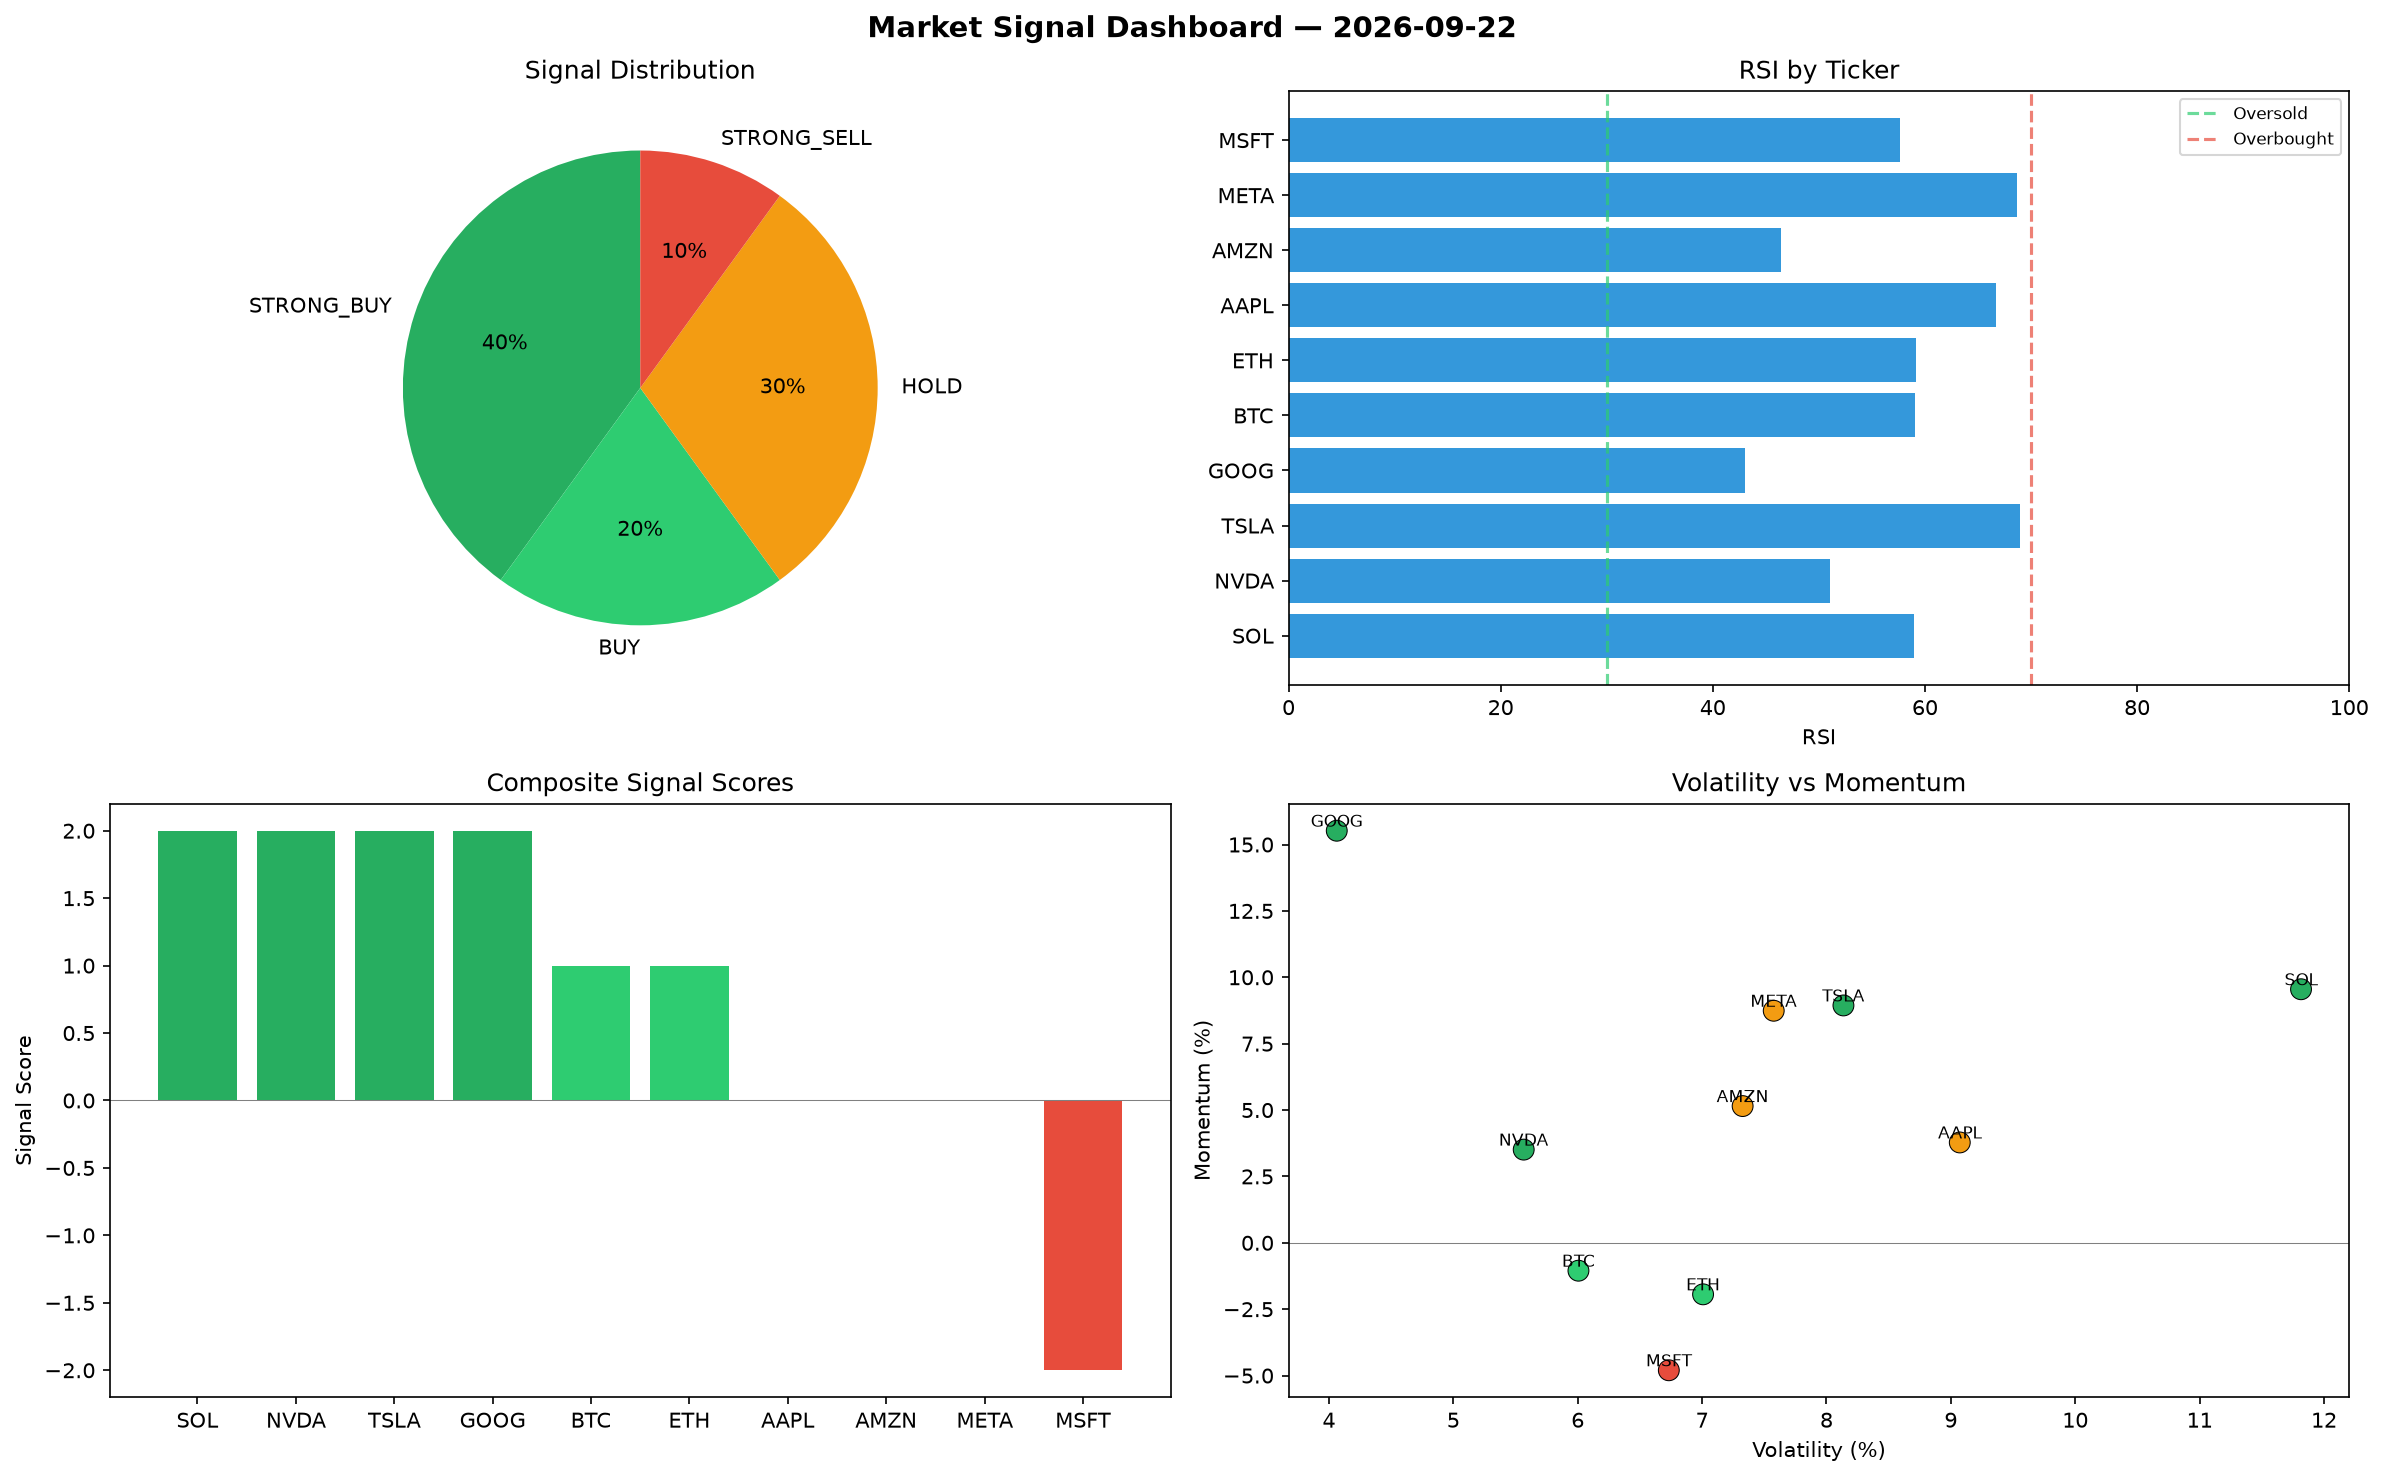
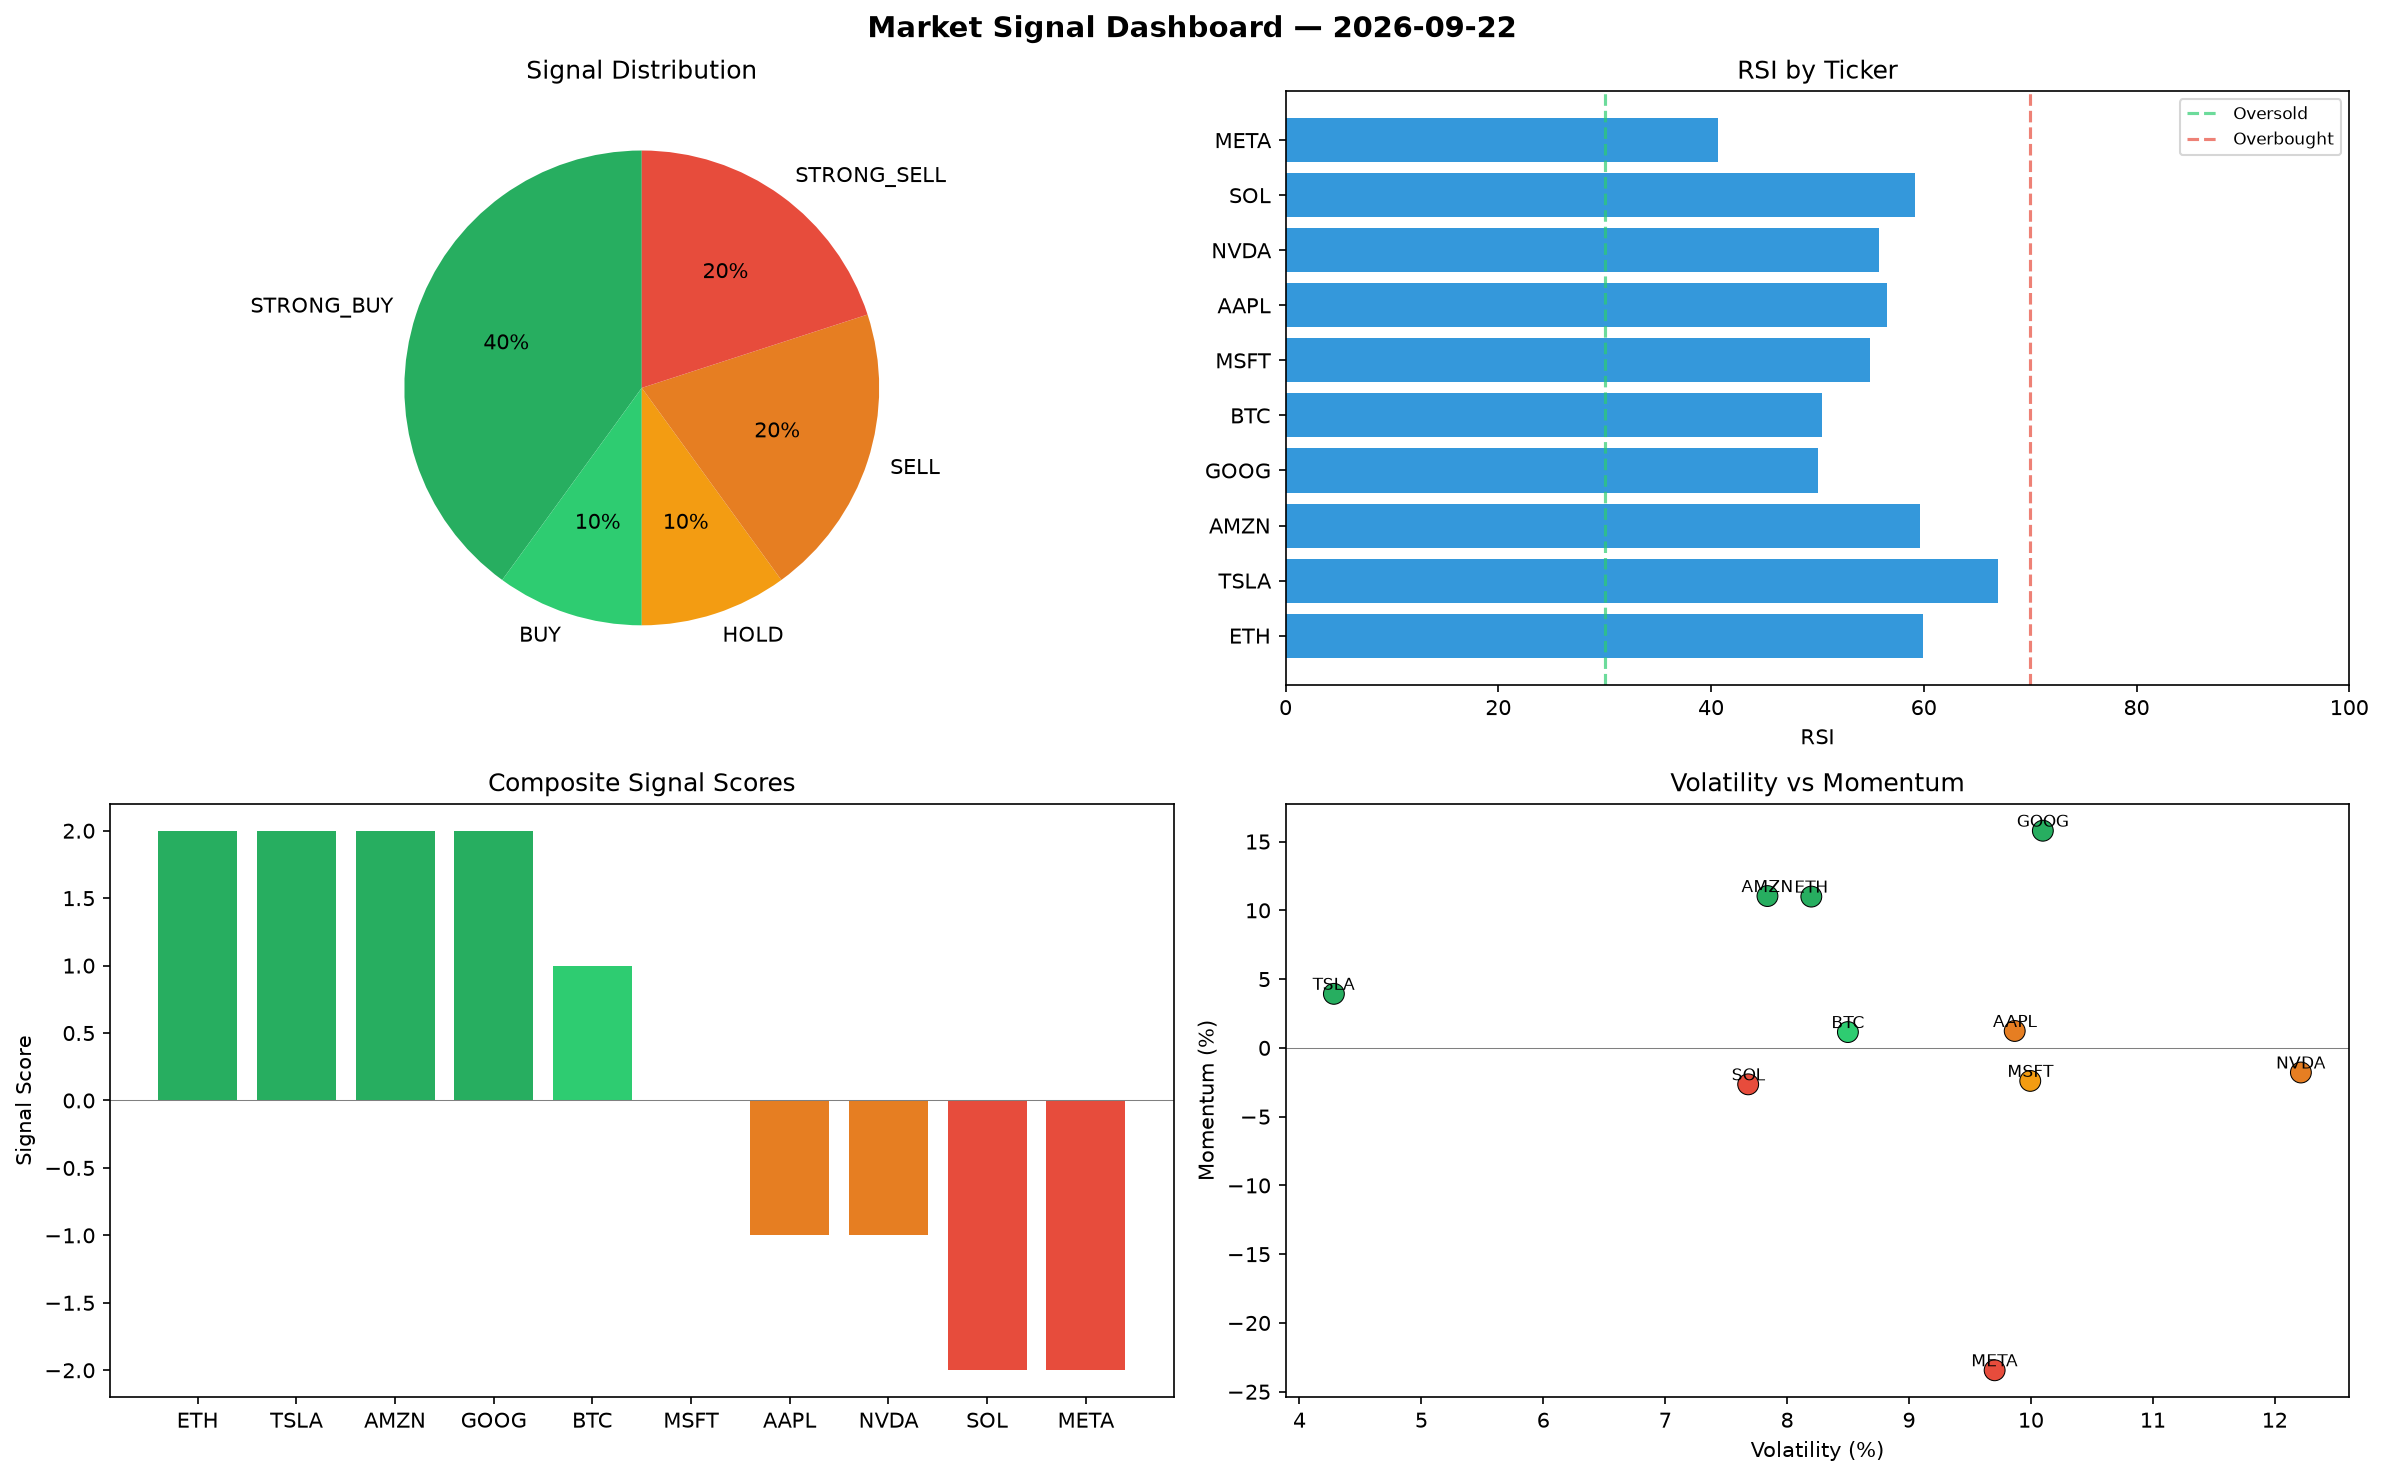
automated-bots: market signals 2026-09-22T13:32

diff --git a/logs/2026-09-22.md b/logs/2026-09-22.md
@@ -1,6 +1,6 @@
 # Market Signal Report — 2026-09-22
 
-**Run ID:** `a500047b1a` | **Buy:** 6 | **Sell:** 1 | **Hold:** 3
+**Run ID:** `21e8f8f37a` | **Buy:** 5 | **Sell:** 4 | **Hold:** 1
 
 ![Dashboard](2026-09-22_dashboard.png)
 
@@ -8,28 +8,28 @@
 
 | Ticker | Price | Signal | Score | RSI | Momentum | Confidence |
 |--------|-------|--------|-------|-----|----------|------------|
-| SOL | $840.47 | **STRONG_BUY** | 2 | 58.97 | 0.0955 | 0.5 |
-| NVDA | $2022.67 | **STRONG_BUY** | 2 | 51.03 | 0.0351 | 0.5 |
-| TSLA | $5261.15 | **STRONG_BUY** | 2 | 68.97 | 0.0894 | 0.5 |
-| GOOG | $2951.37 | **STRONG_BUY** | 2 | 43.04 | 0.1552 | 0.5 |
-| BTC | $5230.6 | **BUY** | 1 | 59.1 | -0.0105 | 0.25 |
-| ETH | $3487.36 | **BUY** | 1 | 59.13 | -0.0194 | 0.25 |
-| AAPL | $1743.34 | **HOLD** | 0 | 66.74 | 0.0378 | 0.0 |
-| AMZN | $2228.27 | **HOLD** | 0 | 46.46 | 0.0515 | 0.0 |
-| META | $548.79 | **HOLD** | 0 | 68.68 | 0.0874 | 0.0 |
-| MSFT | $334.98 | **STRONG_SELL** | -2 | 57.61 | -0.048 | 0.5 |
+| ETH | $2295.64 | **STRONG_BUY** | 2 | 59.93 | 0.11 | 0.5 |
+| TSLA | $72.76 | **STRONG_BUY** | 2 | 67.0 | 0.0393 | 0.5 |
+| AMZN | $3224.64 | **STRONG_BUY** | 2 | 59.67 | 0.1104 | 0.5 |
+| GOOG | $1126.83 | **STRONG_BUY** | 2 | 50.05 | 0.1579 | 0.5 |
+| BTC | $1253.45 | **BUY** | 1 | 50.46 | 0.0115 | 0.25 |
+| MSFT | $18.33 | **HOLD** | 0 | 54.9 | -0.024 | 0.0 |
+| AAPL | $3698.41 | **SELL** | -1 | 56.56 | 0.0123 | 0.25 |
+| NVDA | $1282.96 | **SELL** | -1 | 55.82 | -0.0179 | 0.25 |
+| SOL | $4013.73 | **STRONG_SELL** | -2 | 59.15 | -0.0265 | 0.5 |
+| META | $511.07 | **STRONG_SELL** | -2 | 40.62 | -0.2344 | 0.5 |
 
 ## Delta vs Yesterday
 
 | Ticker | Today | Yesterday | Price Change | Signal Changed |
 |--------|-------|-----------|-------------|----------------|
-| SOL | STRONG_BUY | STRONG_BUY | 📉 -77.53% | — |
-| NVDA | STRONG_BUY | STRONG_SELL | 📈 387.25% | ⚠ YES |
-| TSLA | STRONG_BUY | STRONG_BUY | 📈 531.83% | — |
-| GOOG | STRONG_BUY | STRONG_SELL | 📈 34.45% | ⚠ YES |
-| BTC | BUY | HOLD | 📈 109.52% | ⚠ YES |
-| ETH | BUY | STRONG_SELL | 📈 272.53% | ⚠ YES |
-| AAPL | HOLD | STRONG_SELL | 📈 35.16% | ⚠ YES |
-| AMZN | HOLD | HOLD | 📉 -37.45% | — |
-| META | HOLD | HOLD | 📉 -87.04% | — |
-| MSFT | STRONG_SELL | HOLD | 📉 -85.2% | ⚠ YES |
+| ETH | STRONG_BUY | STRONG_SELL | 📈 145.23% | ⚠ YES |
+| TSLA | STRONG_BUY | STRONG_BUY | 📉 -91.26% | — |
+| AMZN | STRONG_BUY | HOLD | 📉 -9.49% | ⚠ YES |
+| GOOG | STRONG_BUY | STRONG_SELL | 📉 -48.67% | ⚠ YES |
+| BTC | BUY | HOLD | 📉 -49.79% | ⚠ YES |
+| MSFT | HOLD | HOLD | 📉 -99.19% | — |
+| AAPL | SELL | STRONG_SELL | 📈 186.73% | ⚠ YES |
+| NVDA | SELL | STRONG_SELL | 📈 209.06% | ⚠ YES |
+| SOL | STRONG_SELL | STRONG_BUY | 📈 7.32% | ⚠ YES |
+| META | STRONG_SELL | HOLD | 📉 -87.93% | ⚠ YES |
